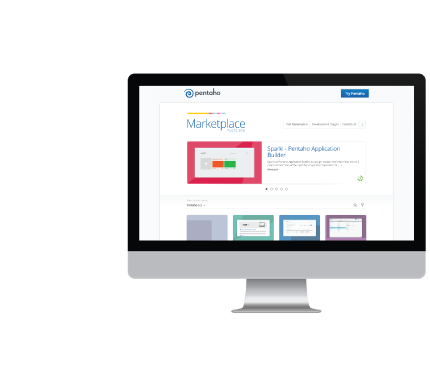
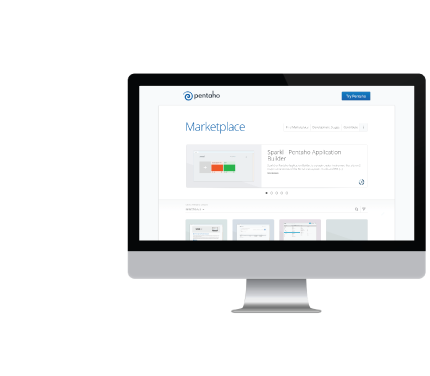
- Update main page header with 5.3 release info.

diff --git a/index.html b/index.html
@@ -82,13 +82,12 @@
               <!-- Example row of columns -->
               <div class="row">
                 <div class="col-lg-6 cbp-so-side cbp-so-side-left">
-                  <h1 style="letter-spacing: -0.03em;">Introducing Pentaho Community Edition 5.2</h1>
-                  <p>Promoting innovation, participation, and cooperation. <br>
-                  This release includes the <strong>Pentaho Marketplace</strong> where community members can explore and install community-developed Pentaho plugins with just one click.</p>
+                  <h1 style="letter-spacing: -0.03em;">Pentaho<br>Community 5.3</h1>
+                  <p>Following our powerful community heritage, 5.3 marks the tremendous success of Pentaho Marketplace and sees a <strong>CDE dashboard</strong> shipped for the first time.</p>
                   <p class="large-button"><span class="btn btn-default btn-header" id="buttonDownloadCE">Download Section<img src="img/download-section.png"></span></p>
                 </div>
                 <div class="col-lg-6 cbp-so-side cbp-so-side-right">
-                  <img src="img/pentaho-52-screen.png" alt="">
+                  <img src="img/pentaho-53-screen.png" alt="">
                   <p class="small-button-green"><span class="btn btn-default btn-header" id="buttonDownloadCE-small">Download Section<img src="img/download-section.png"></span></p>
                 </div>
               </div>
